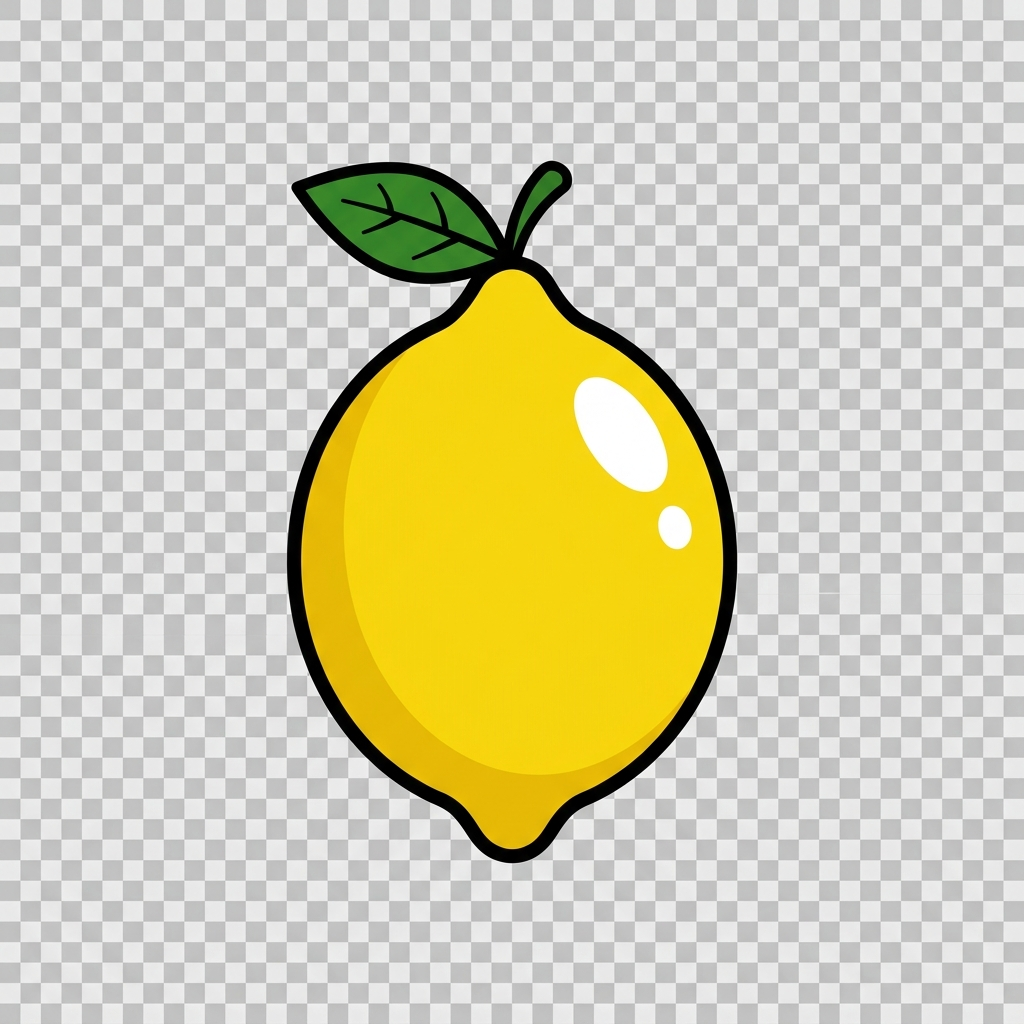
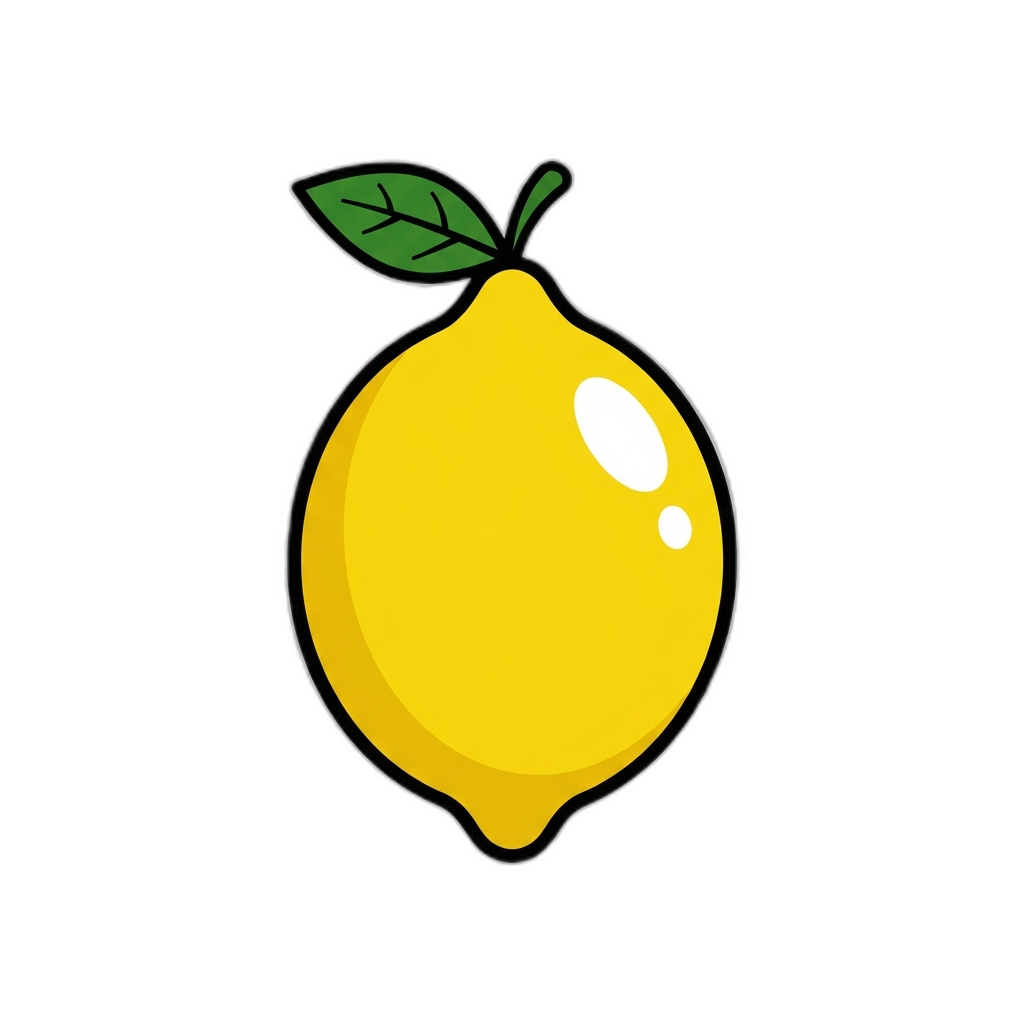
feat: complete visual overhaul with transparent assets and powerup animations

diff --git a/frontend_web/src/vistas/dojo.js b/frontend_web/src/vistas/dojo.js
@@ -6,6 +6,88 @@ import { obtenerUsuario, obtenerSesion, esperarSesion, cerrarSesion, garantizarP
 import { procesarPartida } from '../servicios/middleware.js';
 import { FilesetResolver, HandLandmarker } from '@mediapipe/tasks-vision';
 
+// ── AUDIO (Web Audio API — sin archivos externos) ─────────
+let audioCtx = null;
+
+function getAudioCtx() {
+  if (!audioCtx) audioCtx = new (window.AudioContext || window.webkitAudioContext)();
+  return audioCtx;
+}
+
+function sonidoCorte() {
+  if (!estado.sonido) return;
+  const ac = getAudioCtx();
+  const t = ac.currentTime;
+  // Ruido blanco filtrado → "fsh" húmedo de corte
+  const bufLen = Math.floor(ac.sampleRate * 0.18);
+  const buf = ac.createBuffer(1, bufLen, ac.sampleRate);
+  const data = buf.getChannelData(0);
+  for (let i = 0; i < bufLen; i++) data[i] = Math.random() * 2 - 1;
+  const src = ac.createBufferSource();
+  src.buffer = buf;
+  const bpf = ac.createBiquadFilter();
+  bpf.type = 'bandpass';
+  bpf.frequency.setValueAtTime(2200, t);
+  bpf.frequency.exponentialRampToValueAtTime(600, t + 0.12);
+  bpf.Q.value = 0.8;
+  const gain = ac.createGain();
+  gain.gain.setValueAtTime(0.55, t);
+  gain.gain.exponentialRampToValueAtTime(0.001, t + 0.18);
+  src.connect(bpf); bpf.connect(gain); gain.connect(ac.destination);
+  src.start(t); src.stop(t + 0.18);
+}
+
+function sonidoPowerup() {
+  if (!estado.sonido) return;
+  const ac = getAudioCtx();
+  const t = ac.currentTime;
+  // Arpegio ascendente C5 → E5 → C6
+  [523.25, 659.25, 1046.5].forEach((freq, idx) => {
+    const osc = ac.createOscillator();
+    const gain = ac.createGain();
+    osc.type = 'sine';
+    osc.frequency.value = freq;
+    const s = t + idx * 0.1;
+    gain.gain.setValueAtTime(0, s);
+    gain.gain.linearRampToValueAtTime(0.28, s + 0.02);
+    gain.gain.exponentialRampToValueAtTime(0.001, s + 0.22);
+    osc.connect(gain); gain.connect(ac.destination);
+    osc.start(s); osc.stop(s + 0.22);
+  });
+}
+
+function sonidoBeep(freq, duracion, volumen = 0.35) {
+  // Beep limpio para 3-2-1
+  if (!estado.sonido) return;
+  const ac = getAudioCtx();
+  const t = ac.currentTime;
+  const osc = ac.createOscillator();
+  const gain = ac.createGain();
+  osc.type = 'sine';
+  osc.frequency.value = freq;
+  gain.gain.setValueAtTime(volumen, t);
+  gain.gain.exponentialRampToValueAtTime(0.001, t + duracion);
+  osc.connect(gain); gain.connect(ac.destination);
+  osc.start(t); osc.stop(t + duracion);
+}
+
+function sonidoStart() {
+  // Acorde mayor para "¡YA!"
+  if (!estado.sonido) return;
+  const ac = getAudioCtx();
+  const t = ac.currentTime;
+  [523.25, 659.25, 783.99].forEach(freq => {
+    const osc = ac.createOscillator();
+    const gain = ac.createGain();
+    osc.type = 'sawtooth';
+    osc.frequency.value = freq;
+    gain.gain.setValueAtTime(0.18, t);
+    gain.gain.exponentialRampToValueAtTime(0.001, t + 0.5);
+    osc.connect(gain); gain.connect(ac.destination);
+    osc.start(t); osc.stop(t + 0.5);
+  });
+}
+
 // ── CONSTANTES ───────────────────────────────────────────
 const WS_URL      = 'ws://localhost:8000/ws';
 const DURACION    = 60;        // segundos
@@ -15,10 +97,10 @@ const RADIO_COLISION = 40;     // px
 
 // Power-up definitions
 const POWERUP_DEFS = {
-  estrella: { emoji: '⭐', label: '×2 Puntos', duracion: 5000, color: '#f59e0b' },
-  hielo:    { emoji: '❄', label: 'Congelar',  duracion: 4000, color: '#60a5fa' },
-  reloj:    { emoji: '⏰', label: '+10s',       duracion: 0,    color: '#4ade80' },
-  escudo:   { emoji: '🛡', label: 'Escudo',    duracion: 0,    color: '#c084fc' },
+  estrella: { id: 'estrella', src: '/frutas/estrella.png', emoji: '⭐', label: '×2 Puntos', duracion: 5000, color: '#f59e0b' },
+  hielo:    { id: 'hielo', src: '/frutas/hielo.png', emoji: '❄', label: 'Congelar',  duracion: 4000, color: '#60a5fa' },
+  reloj:    { id: 'reloj', src: '/frutas/reloj.png', emoji: '⏰', label: '+10s',       duracion: 0,    color: '#4ade80' },
+  escudo:   { id: 'escudo', src: '/frutas/escudo.png', emoji: '🛡', label: 'Escudo',    duracion: 0,    color: '#c084fc' },
 };
 
 // ── CATÁLOGO DE FRUTAS CON IMÁGENES ──────────────────────
@@ -36,7 +118,14 @@ const BOMBA_DEF = { id: 'bomba', src: '/frutas/bomba.png', esBomba: true };
 
 // Pre-carga todas las imágenes
 const IMGS = {};
-[...FRUTAS_CATALOGO, BOMBA_DEF].forEach(f => {
+[
+  ...FRUTAS_CATALOGO, 
+  BOMBA_DEF,
+  POWERUP_DEFS.estrella,
+  POWERUP_DEFS.hielo,
+  POWERUP_DEFS.reloj,
+  POWERUP_DEFS.escudo
+].forEach(f => {
   const img = new Image();
   img.src = f.src;
   IMGS[f.id] = img;
@@ -246,6 +335,7 @@ function spawnFruta() {
     const tipos = Object.keys(POWERUP_DEFS);
     tipo  = tipos[Math.floor(Math.random() * tipos.length)];
     emoji = POWERUP_DEFS[tipo].emoji;
+    imgObj = IMGS[tipo];
   } else if (esBomba) {
     emoji  = '💣';
     imgObj = IMGS['bomba'];
@@ -304,12 +394,14 @@ function verificarColisiones() {
       }
 
       if (f.esPowerup) {
+        sonidoPowerup();
         activarPowerup(f.tipoPowerup);
         crearParticulas(fx, fy, f.emoji);
         return;
       }
 
       // Fruta normal
+      sonidoCorte();
       estado.combo++;
       if (estado.combo > estado.comboMax) estado.comboMax = estado.combo;
       const bonus = Math.max(0, estado.combo - 1) * PUNTOS_COMBO;
@@ -503,16 +595,27 @@ function mostrarCountdown() {
     const pasos = ['3', '2', '1', '¡YA!'];
     let i = 0;
 
+    // Frecuencias: 3→440Hz, 2→440Hz, 1→523Hz (C5), ¡YA!→sonidoStart
+    const beepFreqs = [440, 440, 523.25, 0];
+
     function mostrarPaso() {
+      const esYa = pasos[i] === '¡YA!';
       numero.textContent = pasos[i];
       numero.style.transform = 'scale(1.4)';
       numero.style.opacity   = '1';
-      numero.style.color = pasos[i] === '¡YA!' ? 'var(--color-fn-naranja)' : 'white';
+      numero.style.color = esYa ? 'var(--color-fn-naranja)' : 'white';
       requestAnimationFrame(() => {
         requestAnimationFrame(() => {
           numero.style.transform = 'scale(1)';
         });
       });
+
+      // Sonido del paso
+      if (esYa) {
+        sonidoStart();
+      } else {
+        sonidoBeep(beepFreqs[i], 0.25, i === 2 ? 0.5 : 0.35);
+      }
 
       i++;
       if (i < pasos.length) {
@@ -631,6 +734,12 @@ function gameLoop(timestamp) {
   ctx.fillStyle = grad;
   ctx.fillRect(0, 0, canvas.width, canvas.height);
 
+  // Efecto de Hielo (Frost Overlay)
+  if (powerups.hielo) {
+    ctx.fillStyle = 'rgba(96, 165, 250, 0.15)'; // Azul claro transparente
+    ctx.fillRect(0, 0, canvas.width, canvas.height);
+  }
+
   if (!estado.pausado) {
     // Spawn aleatorio
     if (Math.random() < 0.018) spawnFruta();
@@ -683,7 +792,7 @@ function gameLoop(timestamp) {
     });
     mitades = mitades.filter(m => m.alpha > 0 && m.y < canvas.height + 150);
 
-    // Partículas solo para power-ups (no para frutas normales)
+    // Partículas (y texto de powerups)
     efectosVisuales.forEach(p => {
       p.x    += p.vx;
       p.y    += p.vy;
@@ -691,10 +800,16 @@ function gameLoop(timestamp) {
       p.vida -= 0.04;
       ctx.save();
       ctx.globalAlpha = Math.max(0, p.vida);
-      ctx.font = `${p.size}px "Apple Color Emoji", "Segoe UI Emoji", sans-serif`;
+      ctx.font = `bold ${p.size}px "Inter", sans-serif`;
       ctx.textAlign    = 'center';
       ctx.textBaseline = 'middle';
-      ctx.fillText(p.emoji, p.x, p.y);
+      if (p.texto) {
+        ctx.fillStyle = p.color || 'white';
+        ctx.fillText(p.texto, p.x, p.y);
+      } else if (p.emoji) {
+        ctx.font = `${p.size}px "Apple Color Emoji", "Segoe UI Emoji", sans-serif`;
+        ctx.fillText(p.emoji, p.x, p.y);
+      }
       ctx.restore();
     });
     efectosVisuales = efectosVisuales.filter(p => p.vida > 0);
@@ -734,6 +849,38 @@ function gameLoop(timestamp) {
       ctx.shadowColor = 'rgba(249,115,22,1)';
       ctx.fill();
       ctx.restore();
+
+      // Efecto de Escudo (Anillo protector)
+      if (powerups.escudo) {
+        const pulse = 1 + Math.sin(timestamp * 0.005) * 0.1;
+        ctx.save();
+        ctx.beginPath();
+        ctx.arc(px, py, 35 * pulse, 0, Math.PI * 2);
+        ctx.strokeStyle = 'rgba(192, 132, 252, 0.8)';
+        ctx.lineWidth = 3;
+        ctx.shadowBlur = 15;
+        ctx.shadowColor = 'rgba(192, 132, 252, 1)';
+        ctx.stroke();
+        
+        ctx.beginPath();
+        ctx.arc(px, py, 35 * pulse, 0, Math.PI * 2);
+        ctx.fillStyle = 'rgba(192, 132, 252, 0.2)';
+        ctx.fill();
+        ctx.restore();
+      }
+
+      // Efecto Estrella (Aura dorada)
+      if (powerups.multiplicador) {
+        ctx.save();
+        ctx.beginPath();
+        ctx.arc(px, py, 25, 0, Math.PI * 2);
+        ctx.strokeStyle = 'rgba(245, 158, 11, 0.6)';
+        ctx.lineWidth = 2;
+        ctx.setLineDash([5, 5]);
+        ctx.lineDashOffset = -timestamp * 0.05;
+        ctx.stroke();
+        ctx.restore();
+      }
     }
   }
 

diff --git a/remove_bg.py b/remove_bg.py
@@ -1,0 +1,31 @@
+import os
+from rembg import remove
+from PIL import Image
+
+image_dir = 'frontend_web/public/frutas'
+
+if not os.path.exists(image_dir):
+    print(f"Directory {image_dir} does not exist!")
+    exit(1)
+
+for filename in os.listdir(image_dir):
+    if filename.endswith('.png'):
+        input_path = os.path.join(image_dir, filename)
+        
+        # Read the image
+        print(f"Processing {filename}...")
+        try:
+            with open(input_path, 'rb') as f:
+                input_data = f.read()
+            
+            # Remove background
+            output_data = remove(input_data)
+            
+            # Save back to the same file (overwrite)
+            with open(input_path, 'wb') as f:
+                f.write(output_data)
+            print(f"Successfully processed {filename}")
+        except Exception as e:
+            print(f"Failed to process {filename}: {e}")
+
+print("Background removal complete for all images.")
